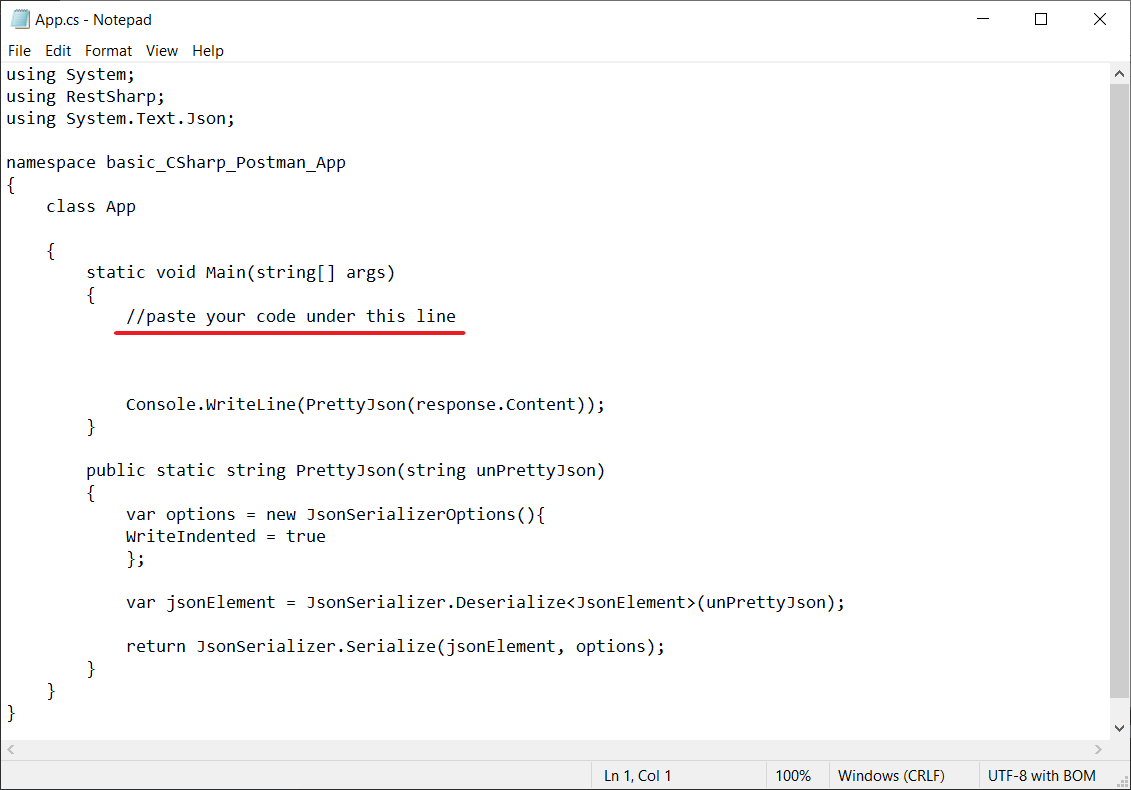
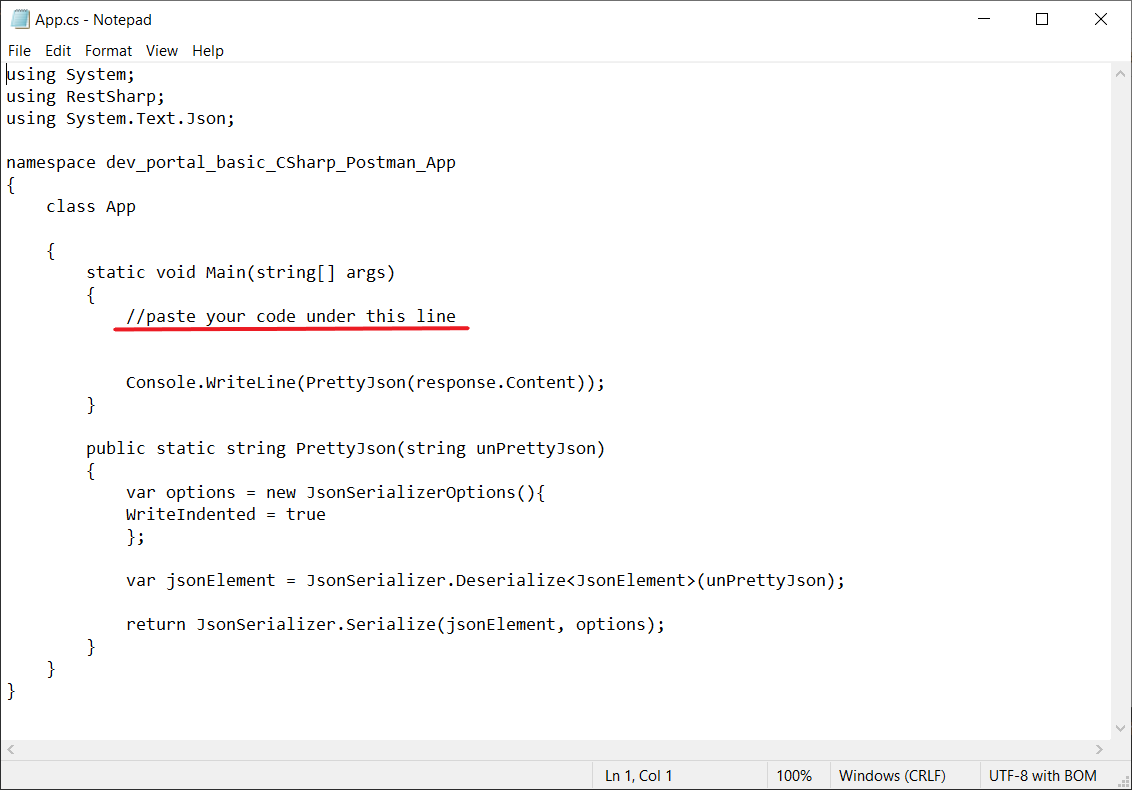
Changed name of the project. Changed README.md

diff --git a/App.cs b/App.cs
@@ -2,7 +2,7 @@
 using RestSharp;
 using System.Text.Json;
 
-namespace basic_CSharp_Postman_App
+namespace dev_portal_basic_CSharp_Postman_App
 {
     class App
 
@@ -10,7 +10,6 @@ namespace basic_CSharp_Postman_App
         static void Main(string[] args)
         {
             //paste your code under this line
-
 
             
             Console.WriteLine(PrettyJson(response.Content));

diff --git a/README.md b/README.md
@@ -1,4 +1,4 @@
-# basic-CSharp-Postman-App
+# dev-portal-basic-CSharp-Postman-App
 
 ## Requirements
 
@@ -17,7 +17,7 @@ git clone https://github.com/VitaliiYaremko/basic-CSharp-Postman-App.git
 Then open command prompt and go to your project directory, for example:
 
 ```shell
-cd basic-CSharp-Postman-App
+cd dev-portal-basic-CSharp-Postman-App
 ```
 
 After that, start your project by performing the following steps:
